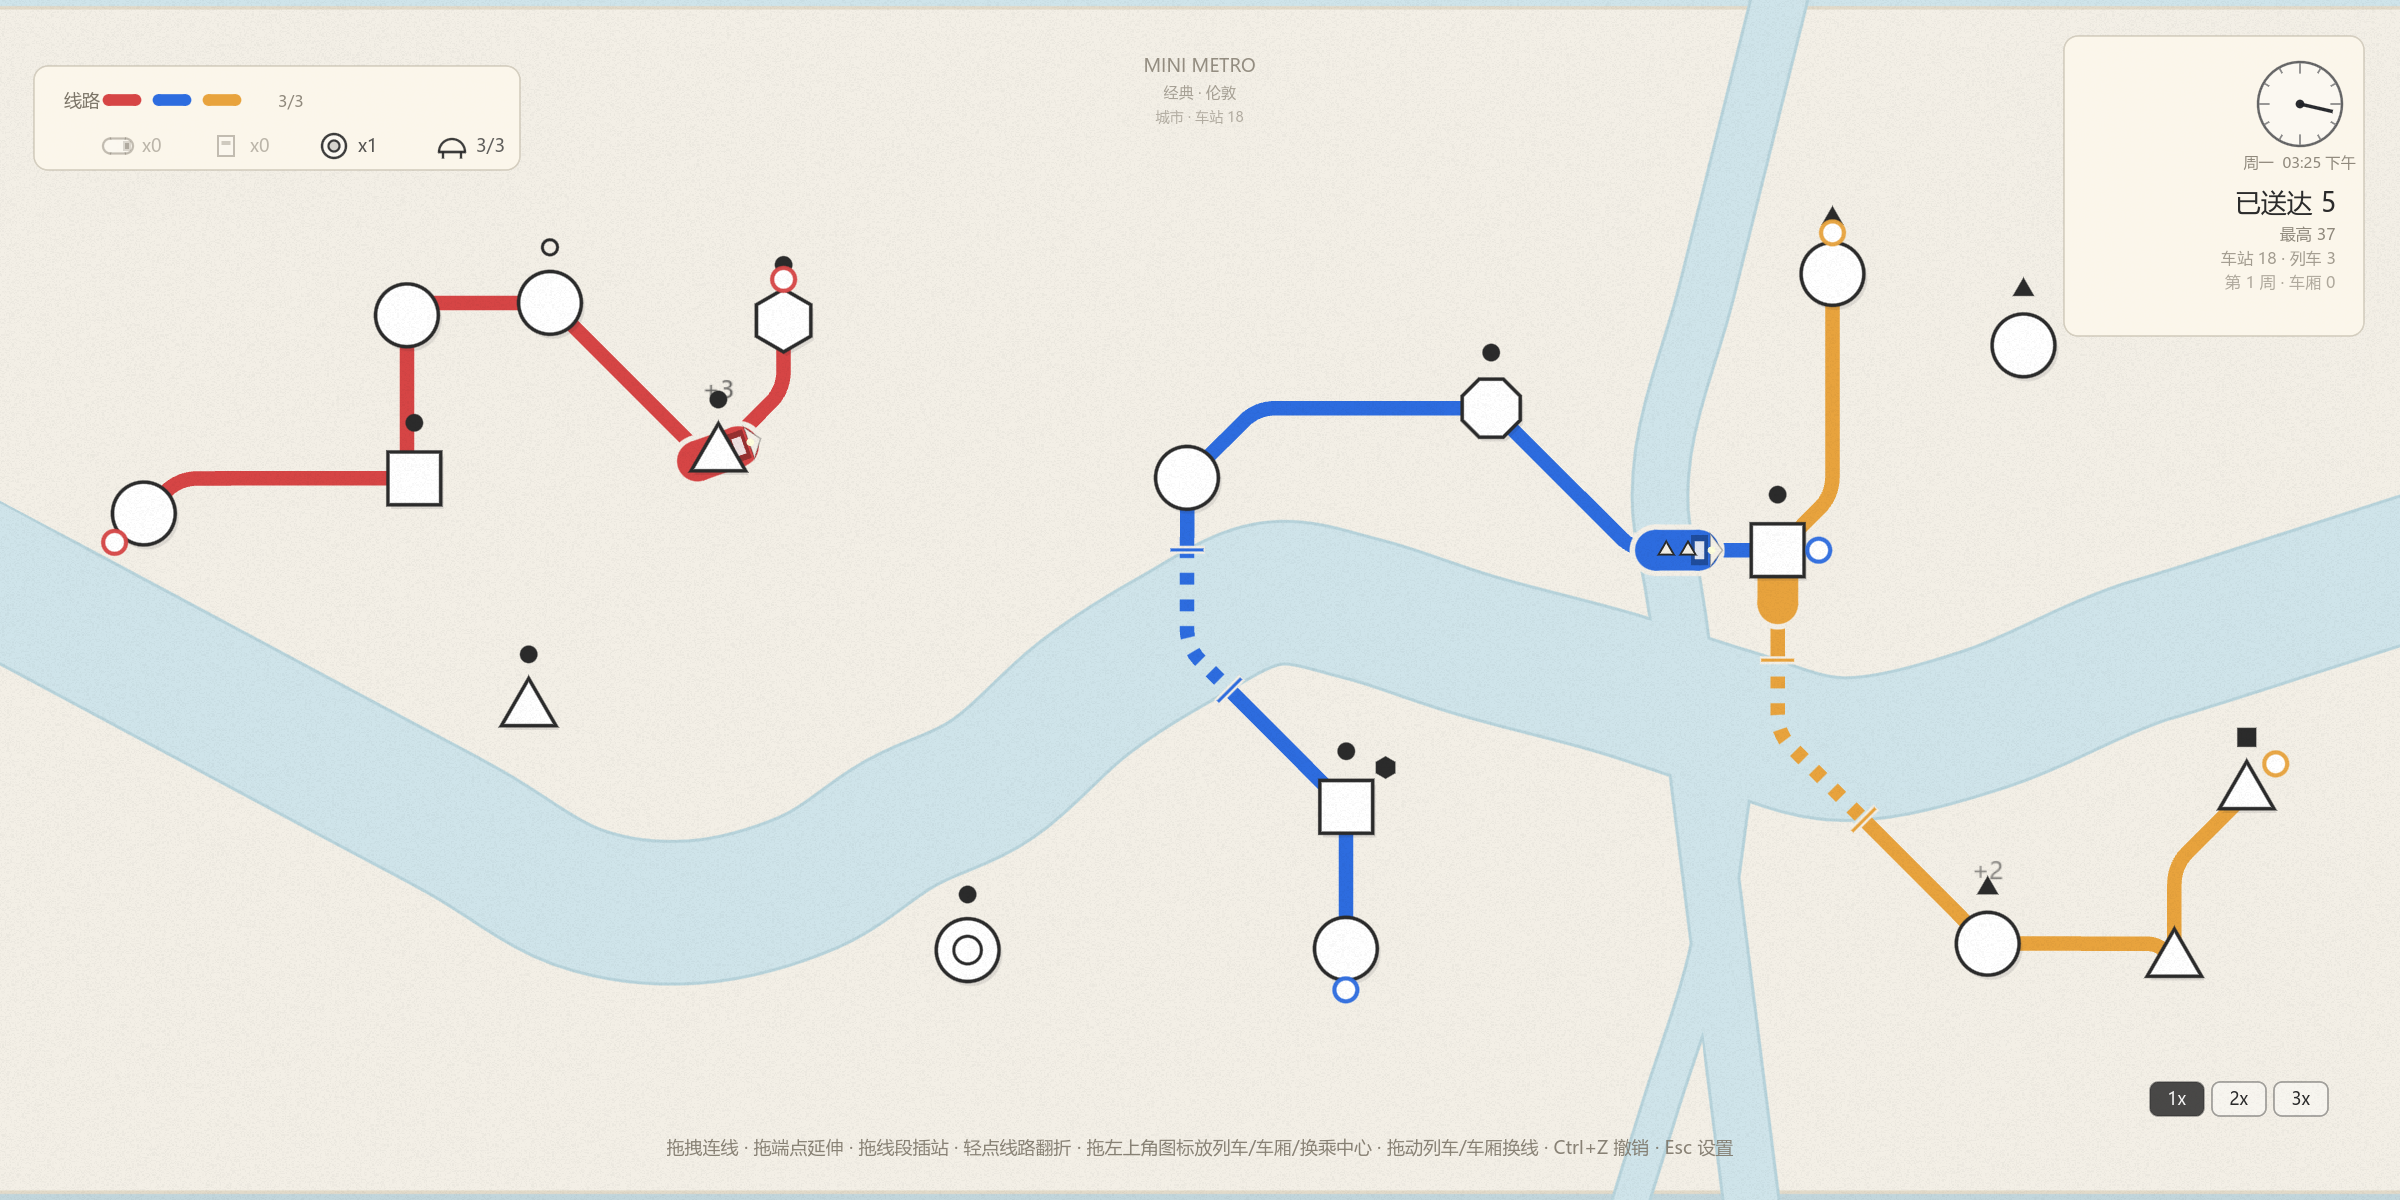
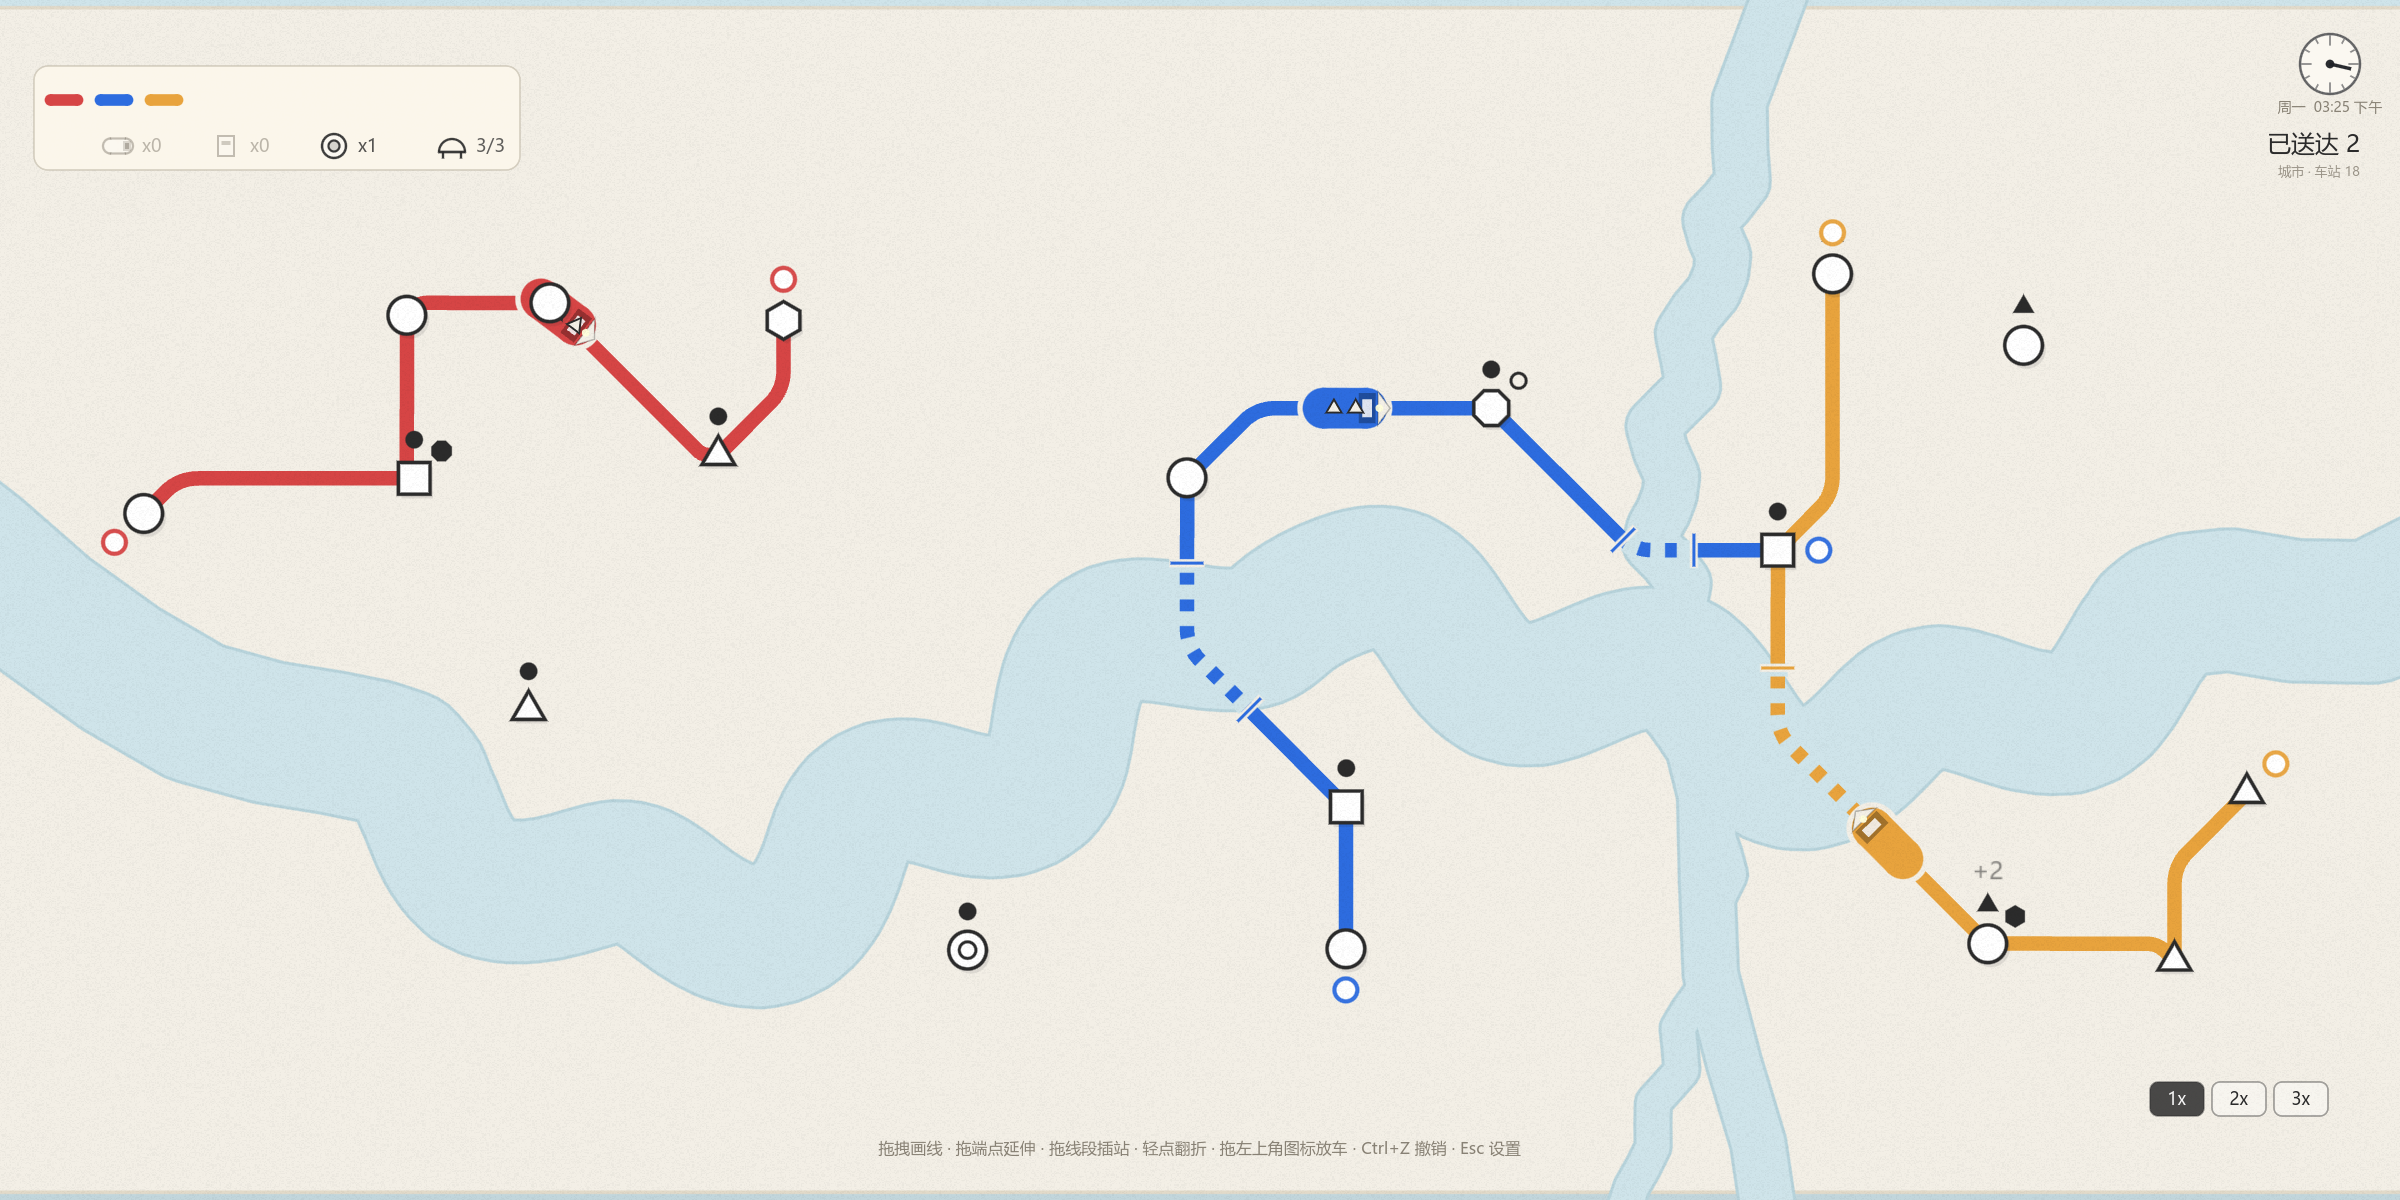
Remove right HUD panel, make rivers more winding
- Right-top HUD panel removed so the map is unobstructed; clock now sits in
  the corner at (vp.x-70, 64) with radius 30, delivered count and stage drawn
  directly on the map with a tighter footprint
- Rivers: reduced Catmull-Rom smoothing (8 -> 4 samples/segment) and added a
  deterministic meander displacement along the centerline normal (amplitude
  0.26*width, wavelength 2*width), followed by a light second smoothing pass to
  avoid hard kinks; paper-city centerlines got extra bends. Result: more
  tortuous river courses instead of smooth ribbons
- tests still 672 checks; refreshed only m1/city-london and the clock crop;
  user-provided screenshot not committed; no export

diff --git a/README.md b/README.md
@@ -37,7 +37,7 @@
 - 游戏窗口与设计分辨率都是 **2400×1200**；地图也是 2400×1200（地图扩大本身不缩放列车与图标，单纯地图更大、更多河流）。每座城市都有更多水系：例如伦敦加了利河/拉文斯本河，巴黎加了马恩河/圣马丁运河，纽约加了哈莱姆河，柏林加了哈弗尔河/达默河，东京加了荒川，上海加了川杨河/淀浦河。
 - 相机随城镇发展**逐渐拉远**：开局较近（zoom 1.25，只能看到地图中央一块），城镇变大后回到正常距离（zoom 1.0，正好看全整张 2400×1200 地图）。
 - **手感调整**：车站图标半径 **15.6px**（比初版缩小 40%）；列车最高速 **126px/s**、加速度 90、减速度 144（均比初版降低 40%），行驶更慢、更容易看清。
-- **HUD 减负**：顶部标题不再常驻；右上只保留时钟 + 已送达 + 城镇阶段；左上只保留线色与库存；底部操作提示 18 秒后自动淡出。
+- **HUD 减负**：顶部标题不再常驻；右上 **没有面板/边框**（直接浮在地图上），只保留时钟 + 已送达 + 城镇阶段；左上只保留线色与库存；底部操作提示 18 秒后自动淡出。
 - 鼠标悬停车站会显示它代表的地标名称（`居民区` / `车站` / `商务区` / `医院` / `度假区` / `景点`）。
 
 ### 地标提示
@@ -65,7 +65,7 @@
 | 东京 Tokyo | 隅田川 + 东南海湾 | 3 / 3 / 2 |
 | 上海 Shanghai | 黄浦江斜贯 + 苏州河 | 4 / 4 / 3 |
 
-> 河流走向按真实城市的 **WGS84 经纬度简化中心线**投影到地图（泰晤士河、塞纳河、哈德逊河/东河、施普雷河+运河、隅田川+东京湾、黄浦江+苏州河等，并在地图扩大后增加了更多支流/运河），按真实宽高比适配 2400×1200 画布；宽度为玩法放大，不是精确测绘图，也没有地名/地标。水域用"并集填充 + 单条海岸线"渲染，两条河重叠或汇流时不会出现内部接缝。
+> 河流走向按真实城市的 **WGS84 经纬度简化中心线**投影到地图（泰晤士河、塞纳河、哈德逊河/东河、施普雷河+运河、隅田川+东京湾、黄浦江+苏州河等，并在地图扩大后增加了更多支流/运河），按真实宽高比适配 2400×1200 画布；宽度为玩法放大，不是精确测绘图，也没有地名/地标。河道在投影后会**叠加程序化曲流**（沿法线的正弦扰动）并降低平滑强度，所以河岸更曲折、不再是平滑飘带，也更接近 Mini Metro 的几何水系。水域用"并集填充 + 单条海岸线"渲染，两条河重叠或汇流时不会出现内部接缝。
 
 ### 伦敦
 
